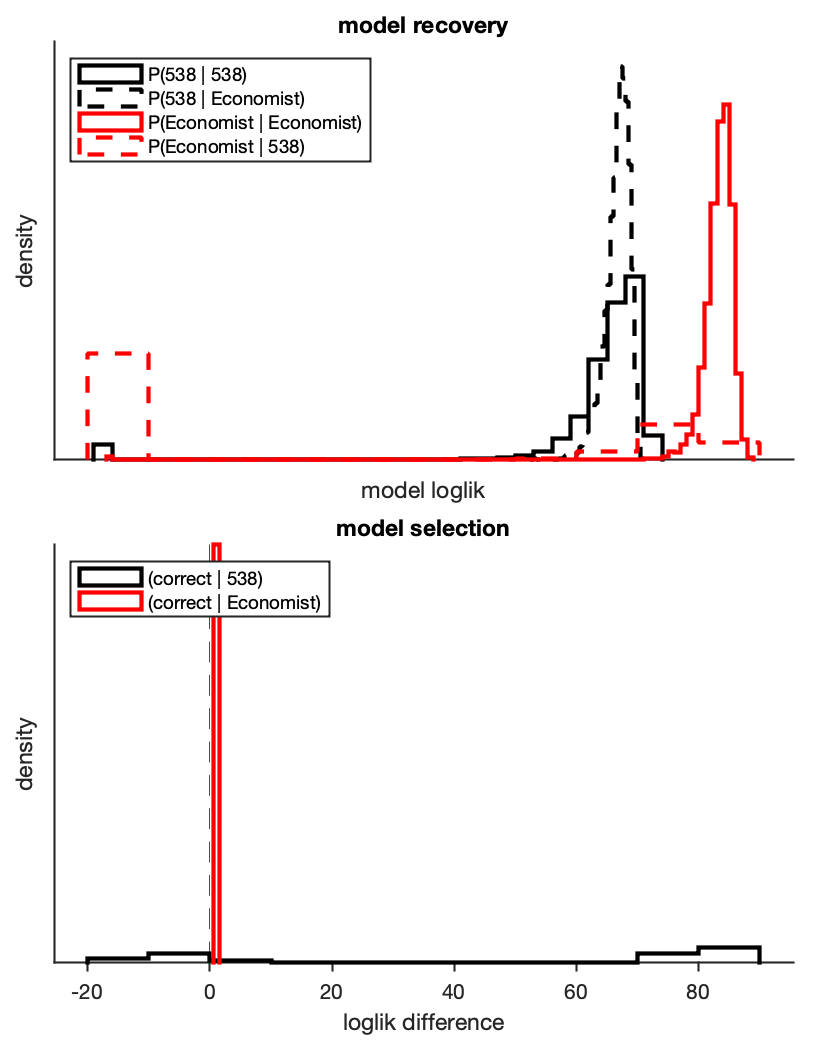
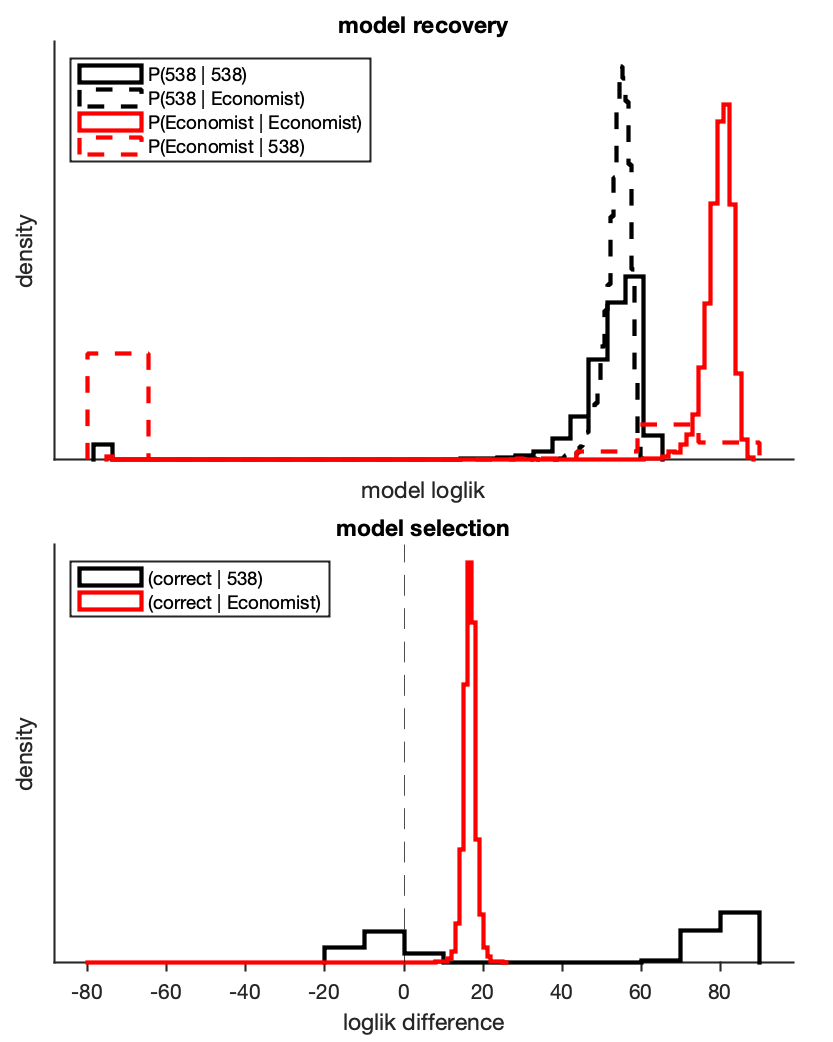
fix model recovery

diff --git a/validate_models.m b/validate_models.m
@@ -210,7 +210,7 @@ simDiff_538 = log(lik_538_538) - log(lik_Econ_538);
 simDiff_Econ = log(lik_Econ_Econ) - log(lik_538_Econ);
 
 prob_simDiff_538 = mean(simDiff_538 > 0)
-simDiff_Econ = mean(simDiff_Econ > 0)
+prob_simDiff_Econ = mean(simDiff_Econ > 0)
 
 
 histogram(simDiff_538, 'Normalization', 'pdf',  'DisplayStyle', 'stairs', 'EdgeColor', 'k', 'LineStyle', '-', 'LineWidth', 2)
@@ -223,6 +223,60 @@ ylabel('density')
 title('model selection')
 xlabel('loglik difference')
 set(gca, 'TickDir', 'out', 'LineWidth', 1)
+
+
+
+
+% % === compare fits
+% nexttile; hold on;
+% simDiff_538 = log(lik_538_538) - log(lik_Econ_538);
+% simDiff_Econ = log(lik_Econ_Econ) - log(lik_538_Econ);
+% 
+% prob_simDiff_538 = mean(simDiff_538 > 0)
+% prob_simDiff_Econ = mean(simDiff_Econ > 0)
+% 
+% 
+% histogram(simDiff_538, 'Normalization', 'pdf',  'DisplayStyle', 'stairs', 'EdgeColor', 'k', 'LineStyle', '-', 'LineWidth', 2)
+% % histogram(simDiff_Econ, 'Normalization', 'pdf', 'DisplayStyle', 'stairs', 'EdgeColor', 'r', 'LineStyle', '-', 'LineWidth', 2)
+% 
+% xline(0, '--k')
+% yticks([])
+% ylabel('density')
+% title('(correct | 538)')
+% xlabel('loglik difference')
+% set(gca, 'TickDir', 'out', 'LineWidth', 1)
+% 
+% 
+% 
+% 
+% nexttile; hold on;
+% simDiff_538 = log(lik_538_538) - log(lik_Econ_538);
+% simDiff_Econ = log(lik_Econ_Econ) - log(lik_538_Econ);
+% 
+% prob_simDiff_538 = mean(simDiff_538 > 0)
+% prob_simDiff_Econ = mean(simDiff_Econ > 0)
+% 
+% 
+% % histogram(simDiff_538, 'Normalization', 'pdf',  'DisplayStyle', 'stairs', 'EdgeColor', 'k', 'LineStyle', '-', 'LineWidth', 2)
+% histogram(simDiff_Econ, 'Normalization', 'pdf', 'DisplayStyle', 'stairs', 'EdgeColor', 'r', 'LineStyle', '-', 'LineWidth', 2)
+% 
+% xline(0, '--k')
+% yticks([])
+% ylabel('density')
+% title('(correct | Economist)')
+% xlabel('loglik difference')
+% set(gca, 'TickDir', 'out', 'LineWidth', 1)
+
+
+
+
+
+
+
+
+
+
+
 
 
 saveas(f_modelRec, './figures/modelRecovery.png') 
